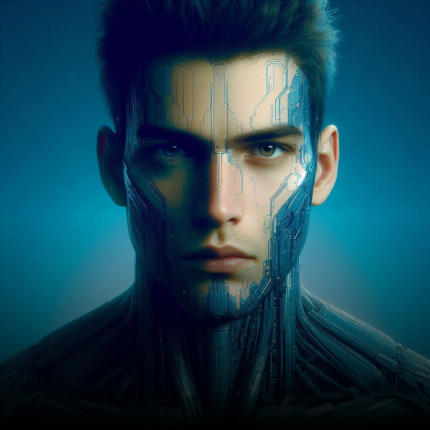
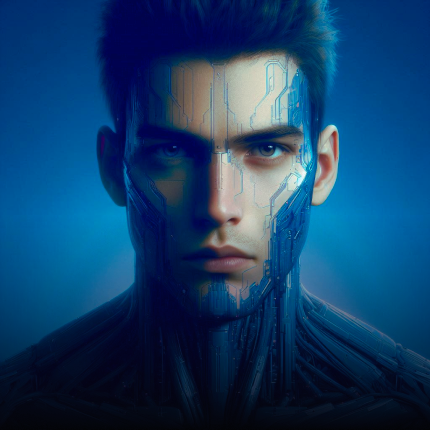
added gradient btns

diff --git a/src/pages/payment.tsx b/src/pages/payment.tsx
@@ -18,6 +18,7 @@ import Animated, {
   withSequence,
   withRepeat as repeat,
 } from 'react-native-reanimated';
+import {DarkBlue, LightBlue} from '../utils/colors';
 
 const {width} = Dimensions.get('window');
 
@@ -200,12 +201,17 @@ const Payment = ({navigation}: any) => {
               />
             ))}
           </View>
-          <TouchableOpacity
-            onPress={() => navigation.navigate('home')}
-            className="bg-cyan-600 p-4 rounded-lg">
-            <Text className="text-center font-extrabold text-xl text-white">
-              Subscribe
-            </Text>
+
+          <TouchableOpacity onPress={() => navigation.navigate('home')}>
+            <LinearGradient
+              start={{x: 0.5, y: 0.25}}
+              end={{x: 0.5, y: 1.0}}
+              colors={[LightBlue, DarkBlue]}
+              className="p-4 rounded-lg">
+              <Text className="text-center font-semibold  text-xl text-black">
+                Continue with free trial
+              </Text>
+            </LinearGradient>
           </TouchableOpacity>
           <View className="flex flex-row justify-between py-3">
             <TouchableOpacity>
@@ -229,6 +235,16 @@ const SlidingText = ({text}: {text: string}) => {
   );
 };
 
+/**
+ * A React component that renders a price button with a gradient background and displays the price and name of the plan.
+ *
+ * @param {object} props - The component props.
+ * @param {string} props.name - The name of the plan.
+ * @param {number} props.price - The price of the plan.
+ * @param {boolean} props.selected - Indicates whether the plan is currently selected.
+ * @param {Function} props.SetSelected - A function to set the selected plan.
+ * @returns {JSX.Element} - The price button component.
+ */
 const PriceButton = ({
   name,
   price,
@@ -250,15 +266,21 @@ const PriceButton = ({
       <LinearGradient
         start={{x: 0.5, y: 0.25}}
         end={{x: 0.5, y: 1.0}}
-        colors={['#0891b2', '#7000FF']}
+        colors={[DarkBlue, LightBlue]}
         className="absolute top-0 left-0 w-full h-full"></LinearGradient>
       <View className="h-full">
         <View className="flex-1 items-center justify-center bg-black m-[0.5px] mb-0 rounded-t-lg">
           <Text className="text-white text-3xl  text-center">${price}</Text>
         </View>
         <Text
-          style={selected && {backgroundColor: '#0891b2'}}
-          className="text-white text-xl m-[0.5px] rounded-b-lg mt-0 bg-gray-700 text-center p-1">
+          style={
+            selected && {
+              backgroundColor: LightBlue,
+              color: 'black',
+              fontWeight: 'semibold',
+            }
+          }
+          className="text-white text-xl m-[0.5px] rounded-b-lg mt-0 bg-gray-800 text-center p-1">
           {name}
         </Text>
       </View>

diff --git a/src/components/onboardbottom.tsx b/src/components/onboardbottom.tsx
@@ -1,5 +1,7 @@
 import {View, Text, TouchableOpacity} from 'react-native';
 import React from 'react';
+import {LightBlue, DarkBlue} from '../utils/colors';
+import LinearGradient from 'react-native-linear-gradient';
 
 const OnBoardBottom = ({
   onboardscreen = 1,
@@ -43,11 +45,16 @@ const OnBoardBottom = ({
             } else if (onboardscreen === 1) {
               navigation.navigate('onboard-2');
             }
-          }}
-          className="bg-cyan-600 p-4 rounded-lg">
-          <Text className="text-center font-extrabold text-xl text-white">
-            Continue
-          </Text>
+          }}>
+          <LinearGradient
+            start={{x: 0.5, y: 0.25}}
+            end={{x: 0.5, y: 1.0}}
+            colors={[LightBlue, DarkBlue]}
+            className="p-4 rounded-lg">
+            <Text className="text-center font-semibold text-xl text-black">
+              Continue
+            </Text>
+          </LinearGradient>
         </TouchableOpacity>
         <Text
           className="text-white text-xs  text-center my-2 "

diff --git a/src/utils/colors.js b/src/utils/colors.js
@@ -1,1 +1,3 @@
 export const DarkGray = '#0D0D0D';
+export const LightBlue = '#56D2F9';
+export const DarkBlue = '#2A8FF7';
